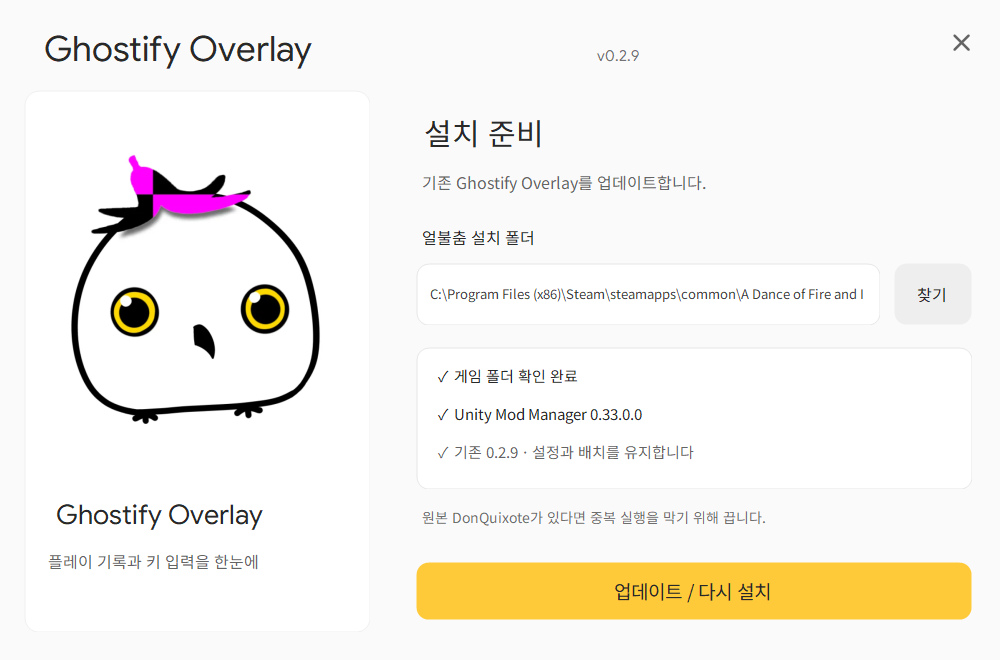
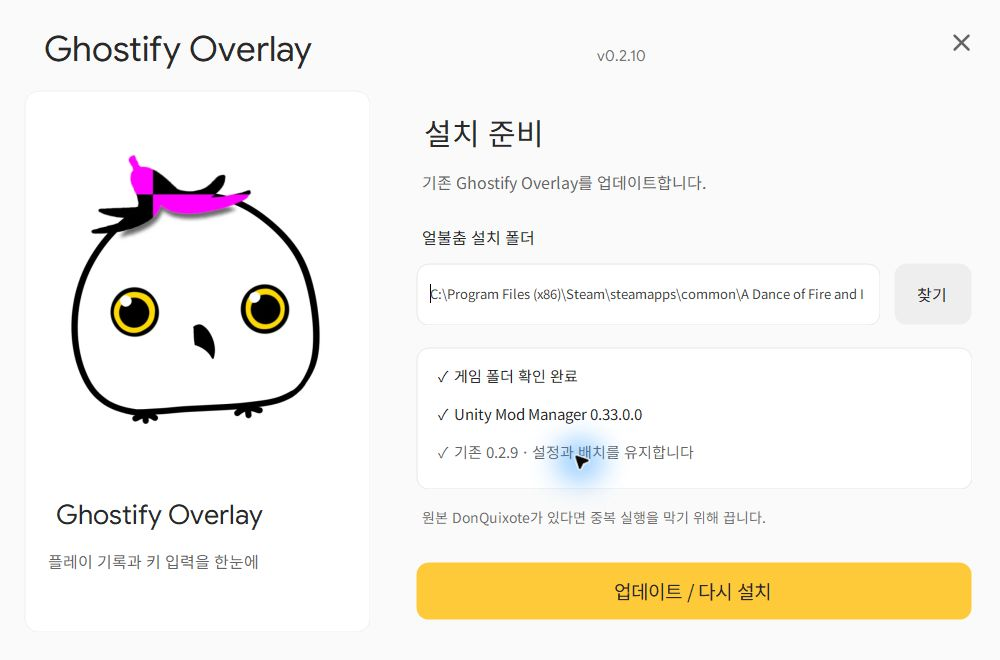
Fix installer button painting and font disposal on close

diff --git a/Installer/Program.cs b/Installer/Program.cs
@@ -53,22 +53,43 @@ namespace GhostifySetup {
         private readonly PrivateFontCollection _fonts = new PrivateFontCollection();
         private readonly System.Collections.Generic.List<IntPtr> _memory = new System.Collections.Generic.List<IntPtr>();
         private readonly System.Collections.Generic.List<IntPtr> _handles = new System.Collections.Generic.List<IntPtr>();
+        private readonly System.Collections.Generic.List<Font> _ownedFonts = new System.Collections.Generic.List<Font>();
+        private FontFamily[] _families = new FontFamily[0];
+        private bool _disposed;
         [DllImport("gdi32.dll")] private static extern IntPtr AddFontMemResourceEx(IntPtr font, uint size, IntPtr reserved, ref uint count);
         [DllImport("gdi32.dll")] private static extern bool RemoveFontMemResourceEx(IntPtr handle);
         internal BrandFonts(InstallerEngine engine) {
+            try {
             foreach (string path in new[] { "Assets/GoogleSans-Regular.ttf", "Assets/NotoSansKR-Regular.ttf" }) {
                 byte[] data = engine.PayloadFile(path); IntPtr memory = Marshal.AllocHGlobal(data.Length); _memory.Add(memory);
                 Marshal.Copy(data, 0, memory, data.Length); _fonts.AddMemoryFont(memory, data.Length);
                 uint count = 0; IntPtr handle = AddFontMemResourceEx(memory, (uint)data.Length, IntPtr.Zero, ref count);
                 if (handle != IntPtr.Zero) _handles.Add(handle);
             }
+                _families = _fonts.Families;
+            } catch { Dispose(); throw; }
         }
         internal Font Font(float size, bool english = false, bool bold = false) {
+            if (_disposed) throw new ObjectDisposedException(nameof(BrandFonts));
             string wanted = english ? "Google Sans" : "Noto Sans KR";
-            foreach (FontFamily family in _fonts.Families) if (family.Name.StartsWith(wanted, StringComparison.OrdinalIgnoreCase)) return new Font(family, size, bold ? FontStyle.Bold : FontStyle.Regular, GraphicsUnit.Point);
-            return new Font("맑은 고딕", size, bold ? FontStyle.Bold : FontStyle.Regular);
+            Font font = null;
+            foreach (FontFamily family in _families) if (family.Name.StartsWith(wanted, StringComparison.OrdinalIgnoreCase)) {
+                font = new Font(family, size, bold ? FontStyle.Bold : FontStyle.Regular, GraphicsUnit.Point); break;
+            }
+            if (font == null) font = new Font("맑은 고딕", size, bold ? FontStyle.Bold : FontStyle.Regular);
+            _ownedFonts.Add(font); return font;
         }
-        public void Dispose() { _fonts.Dispose(); foreach (IntPtr handle in _handles) RemoveFontMemResourceEx(handle); foreach (IntPtr memory in _memory) Marshal.FreeHGlobal(memory); }
+        public void Dispose() {
+            if (_disposed) return;
+            _disposed = true;
+            // Controls must release their handles before the fonts and their backing memory.
+            foreach (Font font in _ownedFonts) font.Dispose();
+            foreach (FontFamily family in _families) family.Dispose();
+            _fonts.Dispose();
+            foreach (IntPtr handle in _handles) RemoveFontMemResourceEx(handle);
+            foreach (IntPtr memory in _memory) Marshal.FreeHGlobal(memory);
+            _ownedFonts.Clear(); _handles.Clear(); _memory.Clear(); _families = new FontFamily[0];
+        }
     }
     internal class RoundedPanel : Panel {
         internal Color Fill = Color.White, Stroke = Color.FromArgb(230, 230, 230);
@@ -87,21 +108,34 @@ namespace GhostifySetup {
     internal sealed class BrandButton : Button {
         internal Color Fill = Color.FromArgb(255, 202, 58), Ink = Color.FromArgb(41, 41, 41);
         internal bool IsClose;
-        private bool _hover;
-        internal BrandButton() { FlatStyle = FlatStyle.Flat; FlatAppearance.BorderSize = 0; Cursor = Cursors.Hand; SetStyle(ControlStyles.UserPaint | ControlStyles.AllPaintingInWmPaint | ControlStyles.OptimizedDoubleBuffer, true); }
+        private bool _hover, _pressed;
+        internal BrandButton() { FlatStyle = FlatStyle.Flat; FlatAppearance.BorderSize = 0; UseVisualStyleBackColor = false; Cursor = Cursors.Hand; SetStyle(ControlStyles.UserPaint | ControlStyles.AllPaintingInWmPaint | ControlStyles.OptimizedDoubleBuffer | ControlStyles.ResizeRedraw, true); }
         protected override void OnMouseEnter(EventArgs e) { _hover = true; Invalidate(); base.OnMouseEnter(e); }
-        protected override void OnMouseLeave(EventArgs e) { _hover = false; Invalidate(); base.OnMouseLeave(e); }
+        protected override void OnMouseLeave(EventArgs e) { _hover = _pressed = false; Invalidate(); base.OnMouseLeave(e); }
+        protected override void OnMouseDown(MouseEventArgs e) { if (e.Button == MouseButtons.Left) _pressed = true; Invalidate(); base.OnMouseDown(e); }
+        protected override void OnMouseUp(MouseEventArgs e) { _pressed = false; Invalidate(); base.OnMouseUp(e); }
+        protected override void OnKeyDown(KeyEventArgs e) { if (e.KeyCode == Keys.Space) { _pressed = true; Invalidate(); } base.OnKeyDown(e); }
+        protected override void OnKeyUp(KeyEventArgs e) { _pressed = false; Invalidate(); base.OnKeyUp(e); }
+        protected override void OnGotFocus(EventArgs e) { Invalidate(); base.OnGotFocus(e); }
+        protected override void OnLostFocus(EventArgs e) { _pressed = false; Invalidate(); base.OnLostFocus(e); }
+        protected override void OnChangeUICues(UICuesEventArgs e) { Invalidate(); base.OnChangeUICues(e); }
+        protected override void OnPaintBackground(PaintEventArgs e) {
+            // The native Button background can be black with owner painting, including at rounded corners.
+            e.Graphics.Clear(Parent == null ? BackColor : Parent.BackColor);
+        }
         protected override void OnPaint(PaintEventArgs e) {
+            // Button's native paint path may skip OnPaintBackground; clear the buffer here too.
+            e.Graphics.Clear(Parent == null ? BackColor : Parent.BackColor);
             e.Graphics.SmoothingMode = SmoothingMode.AntiAlias;
             if (IsClose) {
                 using (var pen = new Pen(_hover ? Color.FromArgb(41, 41, 41) : Color.FromArgb(100, 100, 100), 2.5f) { StartCap = LineCap.Round, EndCap = LineCap.Round }) {
                     float cx = Width / 2f, cy = Height / 2f; e.Graphics.DrawLine(pen, cx - 7, cy - 7, cx + 7, cy + 7); e.Graphics.DrawLine(pen, cx + 7, cy - 7, cx - 7, cy + 7);
                 }
             } else {
-                Color color = !Enabled ? Color.FromArgb(235, 235, 235) : _hover ? ControlPaint.Light(Fill, .16f) : Fill;
+                Color color = !Enabled ? Color.FromArgb(235, 235, 235) : _pressed ? ControlPaint.Dark(Fill, .08f) : _hover ? ControlPaint.Light(Fill, .16f) : Fill;
                 using (var shape = RoundedPanel.Shape(new RectangleF(0, 0, Width - 1, Height - 1), 12)) using (var fill = new SolidBrush(color)) e.Graphics.FillPath(fill, shape);
                 TextRenderer.DrawText(e.Graphics, Text, Font, ClientRectangle, Enabled ? Ink : Color.FromArgb(135, 135, 135), TextFormatFlags.HorizontalCenter | TextFormatFlags.VerticalCenter | TextFormatFlags.SingleLine);
-                if (Focused) ControlPaint.DrawFocusRectangle(e.Graphics, Rectangle.Inflate(ClientRectangle, -5, -5), Ink, color);
+                if (Focused && ShowFocusCues) using (var focus = RoundedPanel.Shape(new RectangleF(3, 3, Width - 7, Height - 7), 9)) using (var pen = new Pen(Ink, 1.5f)) e.Graphics.DrawPath(pen, focus);
             }
         }
     }
@@ -112,18 +146,22 @@ namespace GhostifySetup {
         private readonly Label _gameStatus, _ummStatus, _backupStatus, _heading, _subtitle, _note;
         private readonly BrandButton _install, _browse, _close;
         private readonly PictureBox _mascot;
-        private bool _busy, _complete;
+        private readonly Icon _brandIcon;
+        private bool _busy, _complete, _resourcesDisposed;
         private string _backup;
         private Point? _drag;
         internal SetupWindow(InstallerEngine engine) {
-            _engine = engine; _fonts = new BrandFonts(engine);
+            _engine = engine;
+            try {
+            _fonts = new BrandFonts(engine);
             Text = "Ghostify Overlay 설치"; FormBorderStyle = FormBorderStyle.None; StartPosition = FormStartPosition.CenterScreen;
             ClientSize = new Size(1000, 660); AutoScaleDimensions = new SizeF(96, 96); AutoScaleMode = AutoScaleMode.Dpi;
             BackColor = Color.FromArgb(250, 250, 250); Font = _fonts.Font(12); DoubleBuffered = true;
-            using (var stream = new MemoryStream(InstallerEngine.Resource("Brand.ico"))) using (var icon = new Icon(stream)) Icon = (Icon)icon.Clone();
+            using (var stream = new MemoryStream(InstallerEngine.Resource("Brand.ico"))) using (var icon = new Icon(stream)) _brandIcon = (Icon)icon.Clone();
+            Icon = _brandIcon;
             Label logo = Label("Ghostify Overlay", 26, new Rectangle(28, 8, 550, 76), true);
             Label version = Label("v" + engine.Version, 11, new Rectangle(590, 38, 150, 28), true); version.ForeColor = Color.FromArgb(115, 115, 115);
-            _close = new BrandButton { IsClose = true, Bounds = new Rectangle(941, 22, 40, 40), BackColor = BackColor, TabStop = false }; _close.Click += (s, e) => Close(); Controls.Add(_close);
+            _close = new BrandButton { IsClose = true, AccessibleName = "닫기", Bounds = new Rectangle(941, 22, 40, 40), BackColor = BackColor, TabStop = false }; _close.Click += (s, e) => Close(); Controls.Add(_close);
             var hero = new RoundedPanel { Bounds = new Rectangle(24, 90, 346, 542), BackColor = BackColor, Stroke = Color.FromArgb(239, 239, 239) }; Controls.Add(hero);
             using (var stream = new MemoryStream(InstallerEngine.Resource("Mascot.png"))) using (var image = new Bitmap(stream)) _mascot = new PictureBox { Image = new Bitmap(image), SizeMode = PictureBoxSizeMode.Zoom, BackColor = Color.White, Bounds = new Rectangle(17, 44, 312, 338) };
             hero.Controls.Add(_mascot);
@@ -136,7 +174,7 @@ namespace GhostifySetup {
             _path = new TextBox { BorderStyle = BorderStyle.None, Bounds = new Rectangle(14, 21, 434, 30), Font = _fonts.Font(10), BackColor = Color.White, ForeColor = Color.FromArgb(65, 65, 65) }; input.Controls.Add(_path);
             _path.Leave += (s, e) => ValidateSelection(); _path.KeyDown += (s, e) => { if (e.KeyCode == Keys.Enter) { ValidateSelection(); e.SuppressKeyPress = true; } };
             _browse = new BrandButton { Text = "찾기", Fill = Color.FromArgb(238, 238, 238), Bounds = new Rectangle(894, 263, 78, 62), Font = _fonts.Font(12) }; Controls.Add(_browse);
-            _browse.Click += (s, e) => { using (var picker = new FolderBrowserDialog { Description = "A Dance of Fire and Ice.exe가 있는 게임 폴더를 선택하세요.", SelectedPath = _path.Text, ShowNewFolderButton = false }) if (picker.ShowDialog(this) == DialogResult.OK) SetPath(picker.SelectedPath); };
+            _browse.Click += (s, e) => Browse();
             var status = new RoundedPanel { Bounds = new Rectangle(416, 347, 556, 142), Fill = Color.White, BackColor = BackColor, Radius = 12 }; Controls.Add(status);
             _gameStatus = Label("게임 폴더 선택 대기", 11, new Rectangle(18, 18, 520, 31), false, status);
             _ummStatus = Label("Unity Mod Manager 확인 대기", 11, new Rectangle(18, 56, 520, 31), false, status);
@@ -149,6 +187,7 @@ namespace GhostifySetup {
             MouseUp += (s, e) => _drag = null; logo.MouseUp += (s, e) => _drag = null; version.MouseUp += (s, e) => _drag = null;
             FormClosing += (s, e) => { if (_busy) e.Cancel = true; };
             Shown += (s, e) => { try { SetPath(InstallerEngine.FindGame()); } catch { SetPath(string.Empty); } };
+            } catch { Dispose(); throw; }
         }
         private Label Label(string text, float size, Rectangle bounds, bool english = false, Control parent = null) {
             var label = new Label { Text = text, Bounds = bounds, Font = _fonts.Font(size, english), BackColor = Color.Transparent, ForeColor = Color.FromArgb(41, 41, 41), AutoEllipsis = true };
@@ -157,6 +196,16 @@ namespace GhostifySetup {
         private void DragStart(object sender, MouseEventArgs e) { if (e.Button == MouseButtons.Left && !_busy) _drag = new Point(Cursor.Position.X - Left, Cursor.Position.Y - Top); }
         private void DragMove(object sender, MouseEventArgs e) { if (_drag.HasValue && e.Button == MouseButtons.Left) Location = new Point(Cursor.Position.X - _drag.Value.X, Cursor.Position.Y - _drag.Value.Y); }
         internal void SetPath(string value) { _path.Text = value; ValidateSelection(); }
+        private void Browse() {
+            try {
+                using (var picker = new FolderBrowserDialog {
+                    Description = "A Dance of Fire and Ice.exe가 있는 게임 폴더를 선택하세요.",
+                    RootFolder = Environment.SpecialFolder.MyComputer,
+                    SelectedPath = Directory.Exists(_path.Text) ? _path.Text : string.Empty,
+                    ShowNewFolderButton = false
+                }) if (picker.ShowDialog(this) == DialogResult.OK) SetPath(picker.SelectedPath);
+            } catch (Exception ex) { MessageBox.Show(this, "폴더 선택 창을 열 수 없습니다. 경로를 직접 입력해 주세요.\n" + ex.Message, "Ghostify Overlay", MessageBoxButtons.OK, MessageBoxIcon.Information); }
+        }
         private void ValidateSelection() {
             if (_busy || _complete) return;
             try {
@@ -167,6 +216,8 @@ namespace GhostifySetup {
                 _heading.Text = "설치 준비"; _install.Text = state.IsUpdate ? "업데이트 / 다시 설치" : "설치하기"; _install.Enabled = true;
             } catch (Exception ex) {
                 _gameStatus.Text = ex.Message; _ummStatus.Text = "게임과 Unity Mod Manager를 확인해 주세요."; _install.Enabled = false;
+                _backupStatus.Text = "기존 설정 유지 · 설치 전 자동 백업";
+                _subtitle.Text = "얼불춤 폴더를 확인하고 설치를 시작하세요.";
             }
         }
         private static string Quote(string value) { return "\"" + value.TrimEnd('\\') + "\""; }
@@ -193,14 +244,28 @@ namespace GhostifySetup {
                 _heading.Text = "설치 완료"; _subtitle.Text = "게임에서 Alt+D로 설정을 열어 보세요.";
                 _gameStatus.Text = "✓  Ghostify Overlay " + _engine.Version + " 설치 완료"; _ummStatus.Text = "✓  모드 활성화 완료";
                 _backupStatus.Text = "✓  기존 설정 보존 · 백업 폴더 열기"; _backupStatus.Cursor = Cursors.Hand;
-                _backupStatus.Click += (s, e) => Process.Start(new ProcessStartInfo(_backup) { UseShellExecute = true });
+                _backupStatus.Click += (s, e) => {
+                    try { Process.Start(new ProcessStartInfo(_backup) { UseShellExecute = true }); }
+                    catch (Exception ex) { MessageBox.Show(this, "백업 폴더를 열 수 없습니다.\n" + ex.Message, "Ghostify Overlay", MessageBoxButtons.OK, MessageBoxIcon.Information); }
+                };
                 _note.Text = "저장한 키 색상과 오버레이 배치는 그대로 유지됩니다."; _install.Text = "완료";
             } catch (System.ComponentModel.Win32Exception ex) when (ex.NativeErrorCode == 1223) { _heading.Text = "설치 취소"; _subtitle.Text = "설치를 시작하려면 다시 눌러 주세요."; }
             catch (Exception ex) { _heading.Text = "설치 확인 필요"; _subtitle.Text = "아래 내용을 확인한 뒤 다시 시도해 주세요."; MessageBox.Show(this, ex.Message, "Ghostify Overlay", MessageBoxButtons.OK, MessageBoxIcon.Information); }
             finally { _busy = false; _install.Enabled = _browse.Enabled = _close.Enabled = true; _path.ReadOnly = false; if (!_complete) ValidateSelection(); }
         }
         protected override void Dispose(bool disposing) {
-            if (disposing) { _mascot.Image.Dispose(); Icon.Dispose(); base.Dispose(true); _fonts.Dispose(); } else base.Dispose(false);
+            if (!disposing || _resourcesDisposed) { base.Dispose(disposing); return; }
+            _resourcesDisposed = true;
+            Image image = _mascot == null ? null : _mascot.Image;
+            Icon icon = _brandIcon;
+            if (_mascot != null) _mascot.Image = null;
+            Icon = null;
+            try { base.Dispose(true); }
+            finally {
+                if (image != null) image.Dispose();
+                if (icon != null) icon.Dispose();
+                if (_fonts != null) _fonts.Dispose();
+            }
         }
     }
 }

diff --git a/Installer/InstallerUiTests.cs b/Installer/InstallerUiTests.cs
@@ -1,0 +1,107 @@
+using System;
+using System.Diagnostics;
+using System.Drawing;
+using System.IO;
+using System.IO.Compression;
+using System.Reflection;
+using System.Runtime.InteropServices;
+using System.Text;
+using System.Windows.Forms;
+
+namespace GhostifySetup {
+    internal static class InstallerUiTests {
+        private static int _checks;
+        [DllImport("user32.dll")] private static extern uint GetGuiResources(IntPtr process, uint flags);
+        private static void Check(bool value, string name) {
+            if (!value) throw new Exception(name);
+            _checks++; Console.WriteLine("PASS " + name);
+        }
+        private static T Field<T>(object value, string name) {
+            return (T)value.GetType().GetField(name, BindingFlags.Instance | BindingFlags.NonPublic).GetValue(value);
+        }
+        private static void Handler(object value, string name, object argument) {
+            value.GetType().GetMethod(name, BindingFlags.Instance | BindingFlags.NonPublic).Invoke(value, new[] { argument });
+        }
+        private static void CheckCorners(BrandButton button, string name) {
+            using (var bitmap = new Bitmap(button.Width, button.Height)) {
+                button.DrawToBitmap(bitmap, button.ClientRectangle);
+                Color background = button.Parent.BackColor;
+                Check(bitmap.GetPixel(0, 0).ToArgb() == background.ToArgb() &&
+                      bitmap.GetPixel(bitmap.Width - 1, 0).ToArgb() == background.ToArgb() &&
+                      bitmap.GetPixel(0, bitmap.Height - 1).ToArgb() == background.ToArgb() &&
+                      bitmap.GetPixel(bitmap.Width - 1, bitmap.Height - 1).ToArgb() == background.ToArgb(), name + " [" + bitmap.GetPixel(0, 0) + ", " + bitmap.GetPixel(bitmap.Width - 1, bitmap.Height - 1) + "]");
+            }
+        }
+        private static void Cycle(InstallerEngine engine, int mode) {
+            using (var form = new SetupWindow(engine)) {
+                form.StartPosition = FormStartPosition.Manual; form.Location = new Point(-20000, -20000); form.ShowInTaskbar = false;
+                form.Shown += (s, e) => form.BeginInvoke(new Action(() => {
+                    if (mode == 1) Field<BrandButton>(form, "_close").PerformClick();
+                    else if (mode == 2) typeof(Form).GetMethod("ProcessDialogKey", BindingFlags.Instance | BindingFlags.NonPublic).Invoke(form, new object[] { Keys.Escape });
+                    else form.Close();
+                }));
+                Application.Run(form);
+                Check(form.IsDisposed, "normal message-loop close releases controls (mode " + mode + ")");
+                // Application.Run already disposed it; using and callers may dispose it again.
+                form.Dispose(); form.Dispose();
+            }
+        }
+        [STAThread]
+        private static int Main(string[] args) {
+            try {
+                Application.SetUnhandledExceptionMode(UnhandledExceptionMode.ThrowException);
+                Application.EnableVisualStyles(); Application.SetCompatibleTextRenderingDefault(false);
+                var engine = InstallerEngine.Embedded();
+                using (var memory = new MemoryStream()) {
+                    byte[] payload = InstallerEngine.Resource("Payload.zip"); memory.Write(payload, 0, payload.Length); memory.Position = 0;
+                    using (var zip = new ZipArchive(memory, ZipArchiveMode.Update, true)) zip.GetEntry("GhostifyOverlay/Assets/NotoSansKR-Regular.ttf").Delete();
+                    var broken = new InstallerEngine(memory.ToArray(), Encoding.UTF8.GetString(InstallerEngine.Resource("Payload.json")));
+                    for (int i = 0; i < 2; i++) {
+                        bool rejected = false;
+                        try { using (var unused = new SetupWindow(broken)) { } } catch (InvalidDataException) { rejected = true; }
+                        Check(rejected, "partial font initialization cleans up without masking the resource error");
+                    }
+                }
+                using (var fonts = new BrandFonts(engine)) {
+                    Check(fonts.Font(12).FontFamily.Name.StartsWith("Noto Sans KR"), "embedded Korean font loads");
+                    Check(fonts.Font(12, true).FontFamily.Name.StartsWith("Google Sans"), "embedded English font loads");
+                    fonts.Dispose(); fonts.Dispose();
+                    bool rejected = false;
+                    try { fonts.Font(12); } catch (ObjectDisposedException) { rejected = true; }
+                    Check(rejected, "disposed fonts cannot use freed memory");
+                }
+                using (var form = new SetupWindow(engine)) {
+                    form.StartPosition = FormStartPosition.Manual; form.Location = new Point(-20000, -20000); form.ShowInTaskbar = false;
+                    form.Show(); Application.DoEvents();
+                    BrandButton browse = Field<BrandButton>(form, "_browse"), install = Field<BrandButton>(form, "_install"), close = Field<BrandButton>(form, "_close");
+                    CheckCorners(browse, "browse normal corners match the window");
+                    Handler(browse, "OnMouseEnter", EventArgs.Empty); CheckCorners(browse, "browse hover corners match the window");
+                    Handler(browse, "OnMouseDown", new MouseEventArgs(MouseButtons.Left, 1, 20, 20, 0)); CheckCorners(browse, "browse pressed corners match the window");
+                    Handler(browse, "OnMouseLeave", EventArgs.Empty);
+                    browse.Focus(); CheckCorners(browse, "browse focus corners match the window");
+                    browse.Enabled = false; CheckCorners(browse, "browse disabled corners match the window"); browse.Enabled = true;
+                    CheckCorners(install, "install corners match the window"); CheckCorners(close, "X button has no black background");
+                    Check(form.AcceptButton == install && form.CancelButton == close && close.AccessibleName == "닫기", "keyboard and accessible close contracts remain available");
+                    form.SetPath(string.Empty); Check(!install.Enabled, "empty path cannot start installation");
+                    form.SetPath(Path.Combine(args[0], "missing-game")); Check(!install.Enabled, "invalid path cannot start installation");
+                    Check(Field<Label>(form, "_backupStatus").Text == "기존 설정 유지 · 설치 전 자동 백업", "invalid paths clear stale update status");
+                    typeof(SetupWindow).GetField("_busy", BindingFlags.Instance | BindingFlags.NonPublic).SetValue(form, true);
+                    form.Close(); Check(!form.IsDisposed, "busy installation cannot dispose controls used by its completion callback");
+                    typeof(SetupWindow).GetField("_busy", BindingFlags.Instance | BindingFlags.NonPublic).SetValue(form, false);
+                    form.Close(); form.Dispose(); form.Dispose();
+                    Check(form.IsDisposed, "shown window can be closed and repeatedly disposed");
+                }
+                for (int i = 0; i < 3; i++) Cycle(engine, i);
+                GC.Collect(); GC.WaitForPendingFinalizers(); GC.Collect();
+                uint beforeGdi = GetGuiResources(Process.GetCurrentProcess().Handle, 0), beforeUser = GetGuiResources(Process.GetCurrentProcess().Handle, 1);
+                long beforeMemory = Process.GetCurrentProcess().PrivateMemorySize64;
+                for (int i = 0; i < 12; i++) Cycle(engine, i % 3);
+                GC.Collect(); GC.WaitForPendingFinalizers(); GC.Collect();
+                Check(GetGuiResources(Process.GetCurrentProcess().Handle, 0) <= beforeGdi + 8, "12 close cycles do not leak GDI resources");
+                Check(GetGuiResources(Process.GetCurrentProcess().Handle, 1) <= beforeUser + 8, "12 close cycles do not leak window resources");
+                Check(Process.GetCurrentProcess().PrivateMemorySize64 - beforeMemory < 12 * 1024 * 1024, "12 close cycles release embedded-font memory");
+                Console.WriteLine("Installer UI assertions passed: " + _checks); return 0;
+            } catch (Exception ex) { Console.Error.WriteLine(ex); return 1; }
+        }
+    }
+}

diff --git a/README.md b/README.md
@@ -1,10 +1,12 @@
-# Ghostify Overlay 0.2.9
+# Ghostify Overlay 0.2.10
 
 ## 설치
 
-[비공개 GitHub 릴리스](https://github.com/vista102/GhostifyOverlay/releases/latest)에서 **GhostifyOverlay-Setup-0.2.9.exe**를 받습니다. Windows 10/11, .NET Framework 4.8, Unity Mod Manager 0.33.0 이상이 설치된 얼불춤을 사용합니다.
+[비공개 GitHub 릴리스](https://github.com/vista102/GhostifyOverlay/releases/latest)에서 **GhostifyOverlay-Setup-0.2.10.exe**를 받습니다. Windows 10/11, .NET Framework 4.8, Unity Mod Manager 0.33.0 이상이 설치된 얼불춤을 사용합니다.
 
 게임을 완전히 종료하고 EXE를 실행한 뒤 자동으로 찾은 게임 폴더를 확인하고 **설치하기 / 업데이트**를 누릅니다. 직접 폴더를 선택할 수도 있습니다. 기존 키 색상·배치·설정·누적 기록은 유지하고 이전 모드·UMM 설정을 자동으로 백업합니다. 설치 실패 시 변경한 파일을 복원합니다. 첨부 캐릭터를 설치 화면과 EXE 아이콘에 사용했습니다. 자세한 제작·복원 안내는 [설치 프로그램 문서](Installer/README.md)에 있습니다.
+
+0.2.10은 설치 창을 닫을 때 글꼴 메모리를 중복 해제하던 오류(HRESULT 0x800703E6)를 수정했습니다. 찾기·설치·닫기 버튼의 검은 모서리를 없애고 키보드 포커스를 둥근 테두리로 표시합니다. 폴더 선택을 취소하면 현재 경로를 유지합니다.
 
 ## 모드 사용
 
@@ -58,7 +60,7 @@ SkyHook 이벤트를 별도 큐로 관찰하고 Unity 객체는 메인 스레드
 
 키뷰어 기준 커밋은 JipperResourcePack ac6d6410571ee7d585aedce7f5085de34f615af2입니다. 클래스 관계·기본 크기와 배치·슬롯 집계·레인 계산을 유지하고 독립 모드 연결, uGUI 설정, 안전한 저장과 자원 정리를 조정했습니다. JALib·IMGUI·DOTween 추가 의존성은 없습니다. BSD 고지와 Google Sans OFL은 배포물에 포함합니다. 자세한 출처는 THIRD-PARTY-NOTICES.md를 참고하세요.
 
-0.2.1의 폰트 초기화 오류 수정을 유지합니다. 0.2.9 Release 빌드 오류·경고 0, 이번 테두리·정렬·닫기 버튼 수정과 관련된 로직 139·이펙트/UI 69로 208개 검사를 통과했습니다. 실제 바탕·테두리·X·토글 픽셀 생성 코드로 만든 미리보기에서 같은 모서리 곡선과 테두리 없는 X 아이콘을 확인했습니다. 변경되지 않은 기능은 0.2.7의 전체 379개 검사 결과를 유지합니다. Noto Sans KR의 family·Regular face·원본/변환 해시·OFL 배포와 한글 음절 11,172개 포함을 확인했습니다. API 대체 검사와 미리보기는 게임 화면을 실행하는 검사가 아닙니다. 인게임 화면·입력·판정 미터·이펙트, 해상도별 표시, 성능과 타 모드 호환성은 사용자 실행 검증 대기입니다.
+0.2.10 Release 빌드 오류·경고 0. 설치 엔진 31개와 설치 UI 36개 검사를 통과했습니다. 실제 배포 EXE에서 폴더 선택·취소, 키보드 포커스, X·Esc·Alt+F4 종료를 확인했고 종료 오류가 재현되지 않았습니다. 기존 모드의 로직·키뷰어·폰트·판정·UI·이펙트·Enter 등록 검사와 패치 연결 검사도 재실행했습니다. Unity 밖에서 호출할 수 없는 패치 3개는 게임 내 실행 검증이 필요합니다. Noto Sans KR의 family·Regular face·원본/변환 해시·OFL 배포와 한글 음절 11,172개 포함을 확인했습니다. 인게임 화면·입력·판정 미터·이펙트, 해상도별 표시, 성능과 타 모드 호환성은 사용자 실행 검증 대기입니다.
 
 프로젝트 폴더·프로젝트 파일·빌드 이름은 GhostifyOverlay, 모드 매니저와 설정창 표시명은 Ghostify Overlay입니다. 기존 설치의 설정·배치·기록이 그대로 이어지도록 내부 UMM ID와 저장 경로는 호환을 유지합니다.
 
